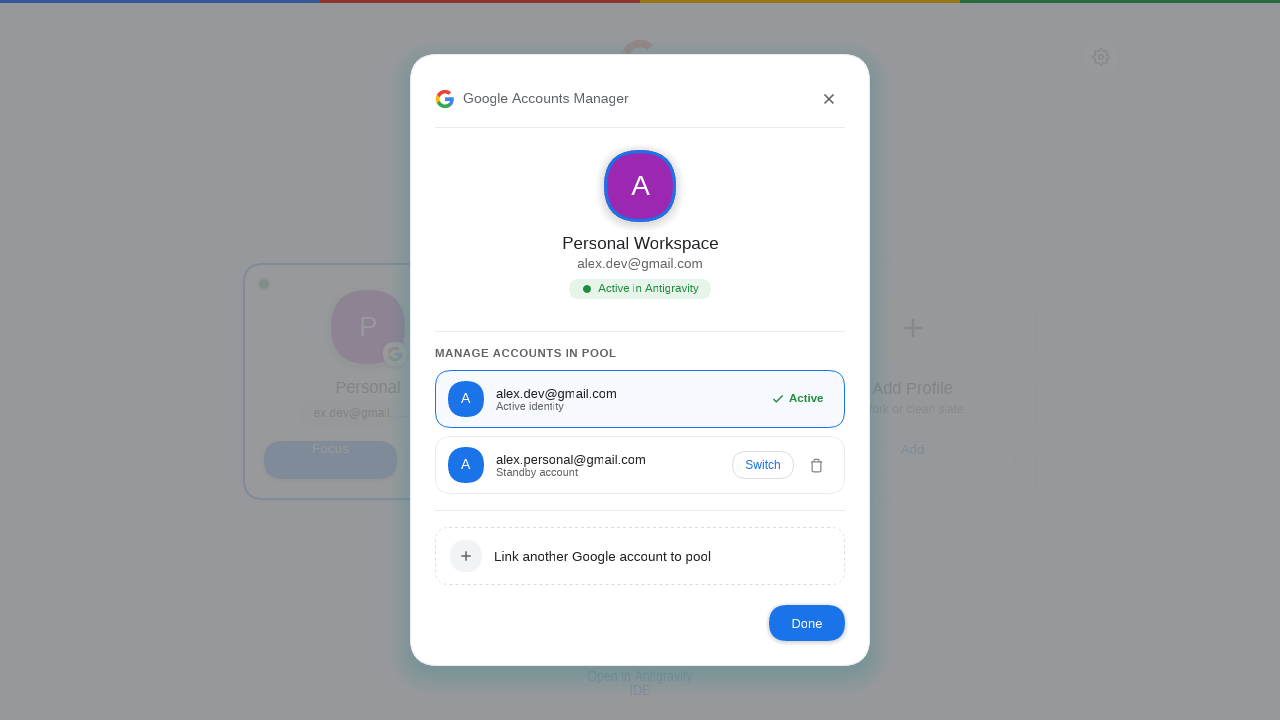
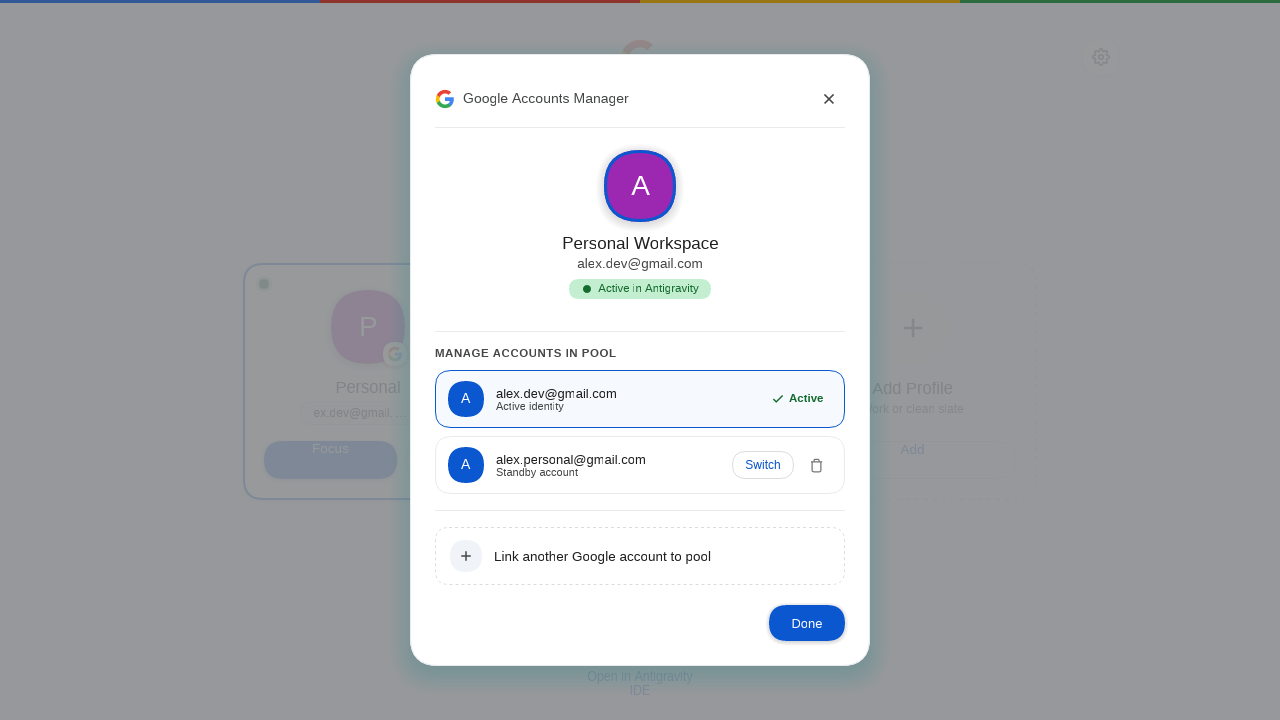
fix: decouple app process attribution via NSWorkspace and refine Google M3 palette

diff --git a/ui.html b/ui.html
@@ -11,30 +11,30 @@
     :root {
       --bg-color: #f8fafd;
       --surface-card: #ffffff;
-      --surface-container: #f1f3f4;
+      --surface-container: #f0f4f9;
       --surface-hover: #f1f3f4;
       --surface-tonal: #e8f0fe;
-      --text-primary: #202124;
-      --text-secondary: #5f6368;
-      --text-subtle: #80868b;
+      --text-primary: #1f1f1f;
+      --text-secondary: #444746;
+      --text-subtle: #747775;
       --border-color: #dadce0;
       --border-subtle: #e8eaed;
       --divider-color: #e8eaed;
-      --btn-primary-bg: #1a73e8;
-      --btn-primary-hover: #1557b0;
+      --btn-primary-bg: #0b57d0;
+      --btn-primary-hover: #0842a0;
       --btn-primary-text: #ffffff;
-      --m3-blue: #1a73e8;
-      --m3-blue-hover: #1557b0;
-      --m3-blue-container: #d2e3fc;
-      --m3-blue-text: #174ea6;
-      --m3-green: #1e8e3e;
-      --m3-green-bg: #e6f4ea;
-      --m3-red: #d93025;
-      --m3-red-hover: #b31412;
-      --m3-red-container: #fce8e6;
-      --m3-yellow: #f29900;
-      --card-shadow: 0 1px 2px 0 rgba(60,64,67,0.1), 0 2px 6px 2px rgba(60,64,67,0.06);
-      --card-shadow-hover: 0 4px 12px 0 rgba(60,64,67,0.16), 0 1px 3px 0 rgba(60,64,67,0.12);
+      --m3-blue: #0b57d0;
+      --m3-blue-hover: #0842a0;
+      --m3-blue-container: #d3e3fd;
+      --m3-blue-text: #041e49;
+      --m3-green: #146c2e;
+      --m3-green-bg: #c4eed0;
+      --m3-red: #b3261e;
+      --m3-red-hover: #8c1d18;
+      --m3-red-container: #f9dedc;
+      --m3-yellow: #e37400;
+      --card-shadow: 0 1px 3px 0 rgba(60,64,67,0.1), 0 1px 2px 0 rgba(60,64,67,0.06);
+      --card-shadow-hover: 0 4px 12px 0 rgba(60,64,67,0.12), 0 1px 3px 0 rgba(60,64,67,0.08);
       --modal-bg: #ffffff;
       --modal-shadow: 0 8px 24px -4px rgba(60,64,67,0.2), 0 16px 40px -4px rgba(60,64,67,0.15);
     }
@@ -42,66 +42,66 @@
     /* System Dark Mode (Authentic Google Dark) */
     @media (prefers-color-scheme: dark) {
       :root:not([data-theme="light"]), body:not([data-theme="light"]) {
-        --bg-color: #202124;
-        --surface-card: #292a2d;
-        --surface-container: #303134;
-        --surface-hover: #35373b;
-        --surface-tonal: #283446;
-        --text-primary: #e8eaed;
-        --text-secondary: #9aa0a6;
-        --text-subtle: #80868b;
-        --border-color: #3c4043;
-        --border-subtle: #303134;
-        --divider-color: #3c4043;
+        --bg-color: #1f1f1f;
+        --surface-card: #28292a;
+        --surface-container: #2e3134;
+        --surface-hover: #37393b;
+        --surface-tonal: #1e2b40;
+        --text-primary: #e3e3e3;
+        --text-secondary: #c4c7c5;
+        --text-subtle: #8e918f;
+        --border-color: #444746;
+        --border-subtle: #36383a;
+        --divider-color: #444746;
         --btn-primary-bg: #1a73e8;
         --btn-primary-hover: #1b66c9;
         --btn-primary-text: #ffffff;
-        --m3-blue: #8ab4f8;
-        --m3-blue-hover: #aecbfa;
-        --m3-blue-container: #174ea6;
-        --m3-blue-text: #8ab4f8;
-        --m3-green: #81c995;
-        --m3-green-bg: #133924;
-        --m3-red: #f28b82;
-        --m3-red-hover: #f6aea9;
-        --m3-red-container: #501311;
+        --m3-blue: #a8c7fa;
+        --m3-blue-hover: #c2e7ff;
+        --m3-blue-container: #0842a0;
+        --m3-blue-text: #d3e3fd;
+        --m3-green: #a8dab5;
+        --m3-green-bg: #0f391b;
+        --m3-red: #f2b8b5;
+        --m3-red-hover: #f9dedc;
+        --m3-red-container: #601410;
         --m3-yellow: #fdd663;
         --card-shadow: 0 2px 6px 0 rgba(0,0,0,0.35);
         --card-shadow-hover: 0 8px 18px 0 rgba(0,0,0,0.5);
-        --modal-bg: #292a2d;
+        --modal-bg: #28292a;
         --modal-shadow: 0 12px 36px 0 rgba(0,0,0,0.7);
       }
     }
 
     /* Explicit Dark Theme (Authentic Google Dark) */
     [data-theme="dark"], :root[data-theme="dark"], body[data-theme="dark"] {
-      --bg-color: #202124 !important;
-      --surface-card: #292a2d !important;
-      --surface-container: #303134 !important;
-      --surface-hover: #35373b !important;
-      --surface-tonal: #283446 !important;
-      --text-primary: #e8eaed !important;
-      --text-secondary: #9aa0a6 !important;
-      --text-subtle: #80868b !important;
-      --border-color: #3c4043 !important;
-      --border-subtle: #303134 !important;
-      --divider-color: #3c4043 !important;
+      --bg-color: #1f1f1f !important;
+      --surface-card: #28292a !important;
+      --surface-container: #2e3134 !important;
+      --surface-hover: #37393b !important;
+      --surface-tonal: #1e2b40 !important;
+      --text-primary: #e3e3e3 !important;
+      --text-secondary: #c4c7c5 !important;
+      --text-subtle: #8e918f !important;
+      --border-color: #444746 !important;
+      --border-subtle: #36383a !important;
+      --divider-color: #444746 !important;
       --btn-primary-bg: #1a73e8 !important;
       --btn-primary-hover: #1b66c9 !important;
       --btn-primary-text: #ffffff !important;
-      --m3-blue: #8ab4f8 !important;
-      --m3-blue-hover: #aecbfa !important;
-      --m3-blue-container: #174ea6 !important;
-      --m3-blue-text: #8ab4f8 !important;
-      --m3-green: #81c995 !important;
-      --m3-green-bg: #133924 !important;
-      --m3-red: #f28b82 !important;
-      --m3-red-hover: #f6aea9 !important;
-      --m3-red-container: #501311 !important;
+      --m3-blue: #a8c7fa !important;
+      --m3-blue-hover: #c2e7ff !important;
+      --m3-blue-container: #0842a0 !important;
+      --m3-blue-text: #d3e3fd !important;
+      --m3-green: #a8dab5 !important;
+      --m3-green-bg: #0f391b !important;
+      --m3-red: #f2b8b5 !important;
+      --m3-red-hover: #f9dedc !important;
+      --m3-red-container: #601410 !important;
       --m3-yellow: #fdd663 !important;
       --card-shadow: 0 2px 6px 0 rgba(0,0,0,0.35) !important;
       --card-shadow-hover: 0 8px 18px 0 rgba(0,0,0,0.5) !important;
-      --modal-bg: #292a2d !important;
+      --modal-bg: #28292a !important;
       --modal-shadow: 0 12px 36px 0 rgba(0,0,0,0.7) !important;
     }
 
@@ -109,30 +109,30 @@
     [data-theme="light"], :root[data-theme="light"], body[data-theme="light"] {
       --bg-color: #f8fafd !important;
       --surface-card: #ffffff !important;
-      --surface-container: #f1f3f4 !important;
+      --surface-container: #f0f4f9 !important;
       --surface-hover: #f1f3f4 !important;
       --surface-tonal: #e8f0fe !important;
-      --text-primary: #202124 !important;
-      --text-secondary: #5f6368 !important;
-      --text-subtle: #80868b !important;
+      --text-primary: #1f1f1f !important;
+      --text-secondary: #444746 !important;
+      --text-subtle: #747775 !important;
       --border-color: #dadce0 !important;
       --border-subtle: #e8eaed !important;
       --divider-color: #e8eaed !important;
-      --btn-primary-bg: #1a73e8 !important;
-      --btn-primary-hover: #1557b0 !important;
+      --btn-primary-bg: #0b57d0 !important;
+      --btn-primary-hover: #0842a0 !important;
       --btn-primary-text: #ffffff !important;
-      --m3-blue: #1a73e8 !important;
-      --m3-blue-hover: #1557b0 !important;
-      --m3-blue-container: #d2e3fc !important;
-      --m3-blue-text: #174ea6 !important;
-      --m3-green: #1e8e3e !important;
-      --m3-green-bg: #e6f4ea !important;
-      --m3-red: #d93025 !important;
-      --m3-red-hover: #b31412 !important;
-      --m3-red-container: #fce8e6 !important;
-      --m3-yellow: #f29900 !important;
-      --card-shadow: 0 1px 2px 0 rgba(60,64,67,0.1), 0 2px 6px 2px rgba(60,64,67,0.06) !important;
-      --card-shadow-hover: 0 4px 12px 0 rgba(60,64,67,0.16), 0 1px 3px 0 rgba(60,64,67,0.12) !important;
+      --m3-blue: #0b57d0 !important;
+      --m3-blue-hover: #0842a0 !important;
+      --m3-blue-container: #d3e3fd !important;
+      --m3-blue-text: #041e49 !important;
+      --m3-green: #146c2e !important;
+      --m3-green-bg: #c4eed0 !important;
+      --m3-red: #b3261e !important;
+      --m3-red-hover: #8c1d18 !important;
+      --m3-red-container: #f9dedc !important;
+      --m3-yellow: #e37400 !important;
+      --card-shadow: 0 1px 3px 0 rgba(60,64,67,0.1), 0 1px 2px 0 rgba(60,64,67,0.06) !important;
+      --card-shadow-hover: 0 4px 12px 0 rgba(60,64,67,0.12), 0 1px 3px 0 rgba(60,64,67,0.08) !important;
       --modal-bg: #ffffff !important;
       --modal-shadow: 0 8px 24px -4px rgba(60,64,67,0.2), 0 16px 40px -4px rgba(60,64,67,0.15) !important;
     }

diff --git a/AntigravitySwitcher.swift b/AntigravitySwitcher.swift
@@ -262,6 +262,7 @@ class SwitcherWindowController: NSObject, NSApplicationDelegate, NSWindowDelegat
     var webView: SwitcherWebView!
     var statusTimer: Timer?
     var signinProcess: Process?
+    var signinApp: NSRunningApplication?
     var signinTimer: Timer?
     
     let homeDir = FileManager.default.homeDirectoryForCurrentUser
@@ -728,21 +729,29 @@ class SwitcherWindowController: NSObject, NSApplicationDelegate, NSWindowDelegat
             try? data.write(to: storageFile)
         }
         
-        let proc = Process()
-        proc.executableURL = URL(fileURLWithPath: binaryPath)
-        proc.arguments = ["--user-data-dir=\(signinUserData.path)"]
+        let appBundlePath = binaryPath.contains("Antigravity IDE") ?
+            "/Applications/Antigravity IDE.app" :
+            "/Applications/Antigravity.app"
+        let appURL = URL(fileURLWithPath: appBundlePath)
+        
+        let config = NSWorkspace.OpenConfiguration()
+        config.arguments = ["--user-data-dir=\(signinUserData.path)"]
         var env = ProcessInfo.processInfo.environment
         env["HOME"] = signinHome.path
         env.removeValue(forKey: "ANTIGRAVITY_GEMINI_DIR")
-        proc.environment = env
+        config.environment = env
+        config.createsNewApplicationInstance = true
+        config.activates = true
         
-        do {
-            try proc.run()
-            self.signinProcess = proc
-            
-            // Watch for sign-in completion in signinGemini
-            signinTimer?.invalidate()
-            signinTimer = Timer.scheduledTimer(withTimeInterval: 1.0, repeats: true) { [weak self] timer in
+        NSWorkspace.shared.openApplication(at: appURL, configuration: config) { [weak self] runningApp, error in
+            if let app = runningApp {
+                self?.signinApp = app
+            }
+        }
+        
+        // Watch for sign-in completion in signinGemini
+        signinTimer?.invalidate()
+        signinTimer = Timer.scheduledTimer(withTimeInterval: 1.0, repeats: true) { [weak self] timer in
                 guard let self = self else { return }
                 
                 var detectedEmail: String? = nil
@@ -820,6 +829,8 @@ class SwitcherWindowController: NSObject, NSApplicationDelegate, NSWindowDelegat
                 // Clean up and terminate temp window
                 timer.invalidate()
                 self.signinTimer = nil
+                self.signinApp?.terminate()
+                self.signinApp = nil
                 self.signinProcess?.terminate()
                 self.signinProcess = nil
                 try? FileManager.default.removeItem(at: signinDir)
@@ -833,14 +844,13 @@ class SwitcherWindowController: NSObject, NSApplicationDelegate, NSWindowDelegat
                     self.webView.evaluateJavaScript("if (window.onSignInHelperComplete) window.onSignInHelperComplete('\(email)');", completionHandler: nil)
                 }
             }
-        } catch {
-            print("Failed to start signin helper: \(error)")
         }
-    }
     
     func cancelAccountCSignIn() {
         signinTimer?.invalidate()
         signinTimer = nil
+        signinApp?.terminate()
+        signinApp = nil
         signinProcess?.terminate()
         signinProcess = nil
         let signinDir = profilesDir.appendingPathComponent("signin-helper")
@@ -929,17 +939,17 @@ class SwitcherWindowController: NSObject, NSApplicationDelegate, NSWindowDelegat
             return
         }
         
-        let binaryPath = ide ?
-            "/Applications/Antigravity IDE.app/Contents/MacOS/Electron" :
-            "/Applications/Antigravity.app/Contents/MacOS/Antigravity"
+        let appBundlePath = ide ?
+            "/Applications/Antigravity IDE.app" :
+            "/Applications/Antigravity.app"
+        let appURL = URL(fileURLWithPath: appBundlePath)
         
-        guard FileManager.default.fileExists(atPath: binaryPath) else {
-            print("Binary not found: \(binaryPath)")
+        guard FileManager.default.fileExists(atPath: appBundlePath) else {
+            print("Application not found: \(appBundlePath)")
             return
         }
         
-        let proc = Process()
-        proc.executableURL = URL(fileURLWithPath: binaryPath)
+        var procArgs: [String] = []
         var env = ProcessInfo.processInfo.environment
         
         if pName == "personal" && !ide {
@@ -964,7 +974,7 @@ class SwitcherWindowController: NSObject, NSApplicationDelegate, NSWindowDelegat
             
             env["HOME"] = homeDir.path
             env.removeValue(forKey: "ANTIGRAVITY_GEMINI_DIR")
-            proc.arguments = []
+            procArgs = []
         } else {
             // Dedicated isolated profile
             let pDir = profilesDir.appendingPathComponent(pName)
@@ -993,27 +1003,34 @@ class SwitcherWindowController: NSObject, NSApplicationDelegate, NSWindowDelegat
             
             env["HOME"] = pHome.path
             env["ANTIGRAVITY_GEMINI_DIR"] = geminiDir.path
-            proc.arguments = ["--user-data-dir=\(userDataDir.path)"]
-            
-            let logFile = pDir.appendingPathComponent(ide ? "antigravity-ide.log" : "antigravity.log")
-            if !FileManager.default.fileExists(atPath: logFile.path) {
-                FileManager.default.createFile(atPath: logFile.path, contents: nil)
-            }
-            if let handle = try? FileHandle(forWritingTo: logFile) {
-                handle.seekToEndOfFile()
-                proc.standardOutput = handle
-                proc.standardError = handle
-            }
+            procArgs = ["--user-data-dir=\(userDataDir.path)"]
         }
         
-        proc.environment = env
+        let config = NSWorkspace.OpenConfiguration()
+        config.arguments = procArgs
+        config.environment = env
+        config.createsNewApplicationInstance = (pName != "personal")
+        config.activates = true
         
-        do {
-            try proc.run()
-            let spawnedPid = proc.processIdentifier
-            if pName != "personal" {
-                let pidFile = profilesDir.appendingPathComponent("\(pName)/run.pid")
-                try? "\(spawnedPid)\n".write(to: pidFile, atomically: true, encoding: .utf8)
+        NSWorkspace.shared.openApplication(at: appURL, configuration: config) { [weak self] runningApp, error in
+            guard let self = self else { return }
+            if let error = error {
+                print("Failed to launch \(pName) via NSWorkspace: \(error)")
+                let fallback = Process()
+                fallback.executableURL = URL(fileURLWithPath: ide ? "\(appBundlePath)/Contents/MacOS/Electron" : "\(appBundlePath)/Contents/MacOS/Antigravity")
+                fallback.arguments = procArgs
+                fallback.environment = env
+                try? fallback.run()
+                if let pid = fallback.processIdentifier as pid_t?, pName != "personal" {
+                    let pidFile = self.profilesDir.appendingPathComponent("\(pName)/run.pid")
+                    try? "\(pid)\n".write(to: pidFile, atomically: true, encoding: .utf8)
+                }
+            } else if let app = runningApp {
+                let spawnedPid = app.processIdentifier
+                if pName != "personal" {
+                    let pidFile = self.profilesDir.appendingPathComponent("\(pName)/run.pid")
+                    try? "\(spawnedPid)\n".write(to: pidFile, atomically: true, encoding: .utf8)
+                }
             }
             
             // Fast status refresh loop after launching
@@ -1022,8 +1039,6 @@ class SwitcherWindowController: NSObject, NSApplicationDelegate, NSWindowDelegat
                     self?.sendProfiles()
                 }
             }
-        } catch {
-            print("Failed to launch: \(error)")
         }
     }
     
